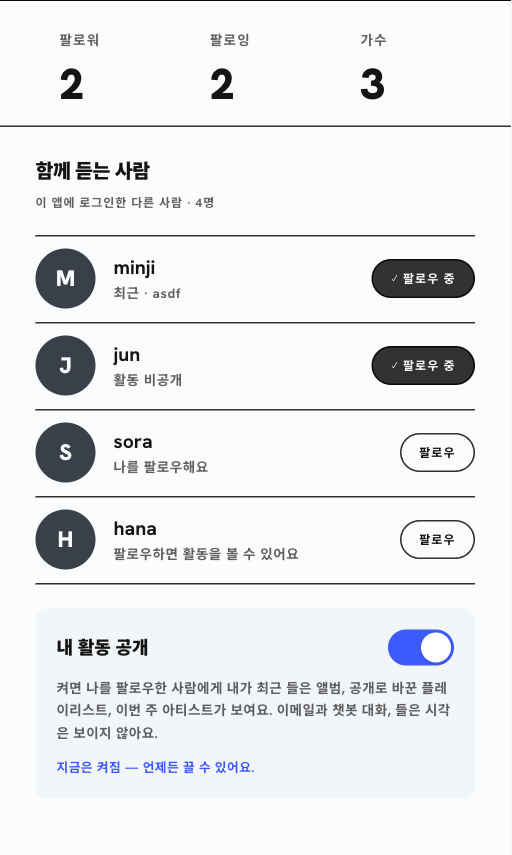
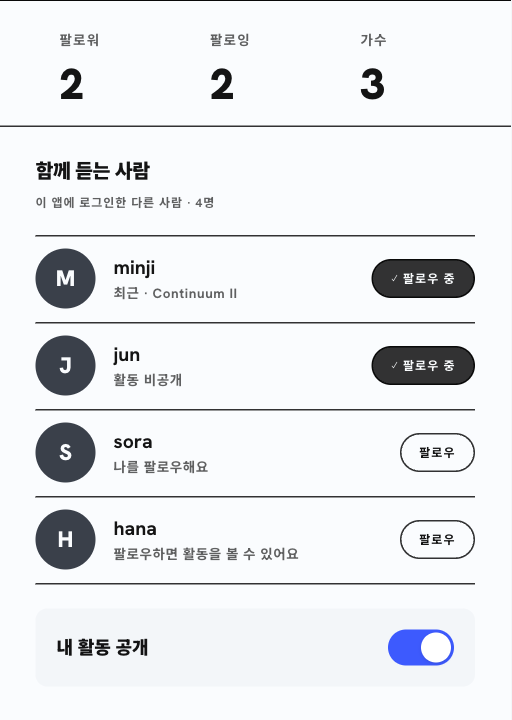
버튼 테두리 제거와 다듬기: 마이페이지·채팅·STATION·프로필 버튼을 투명 테두리로(크기 유지), 내 활동 공개 설명 삭제, 프로필 버튼 크기 통일, 플레이리스트 작업 글씨 키움, 이름 입력칸 테두리·배경 제거, 배너 버튼 옅은 배경, 연결하면 챗봇 서버를 미리 깨우는 /api/agent/warm

diff --git a/components/mypage/playlist-manager.tsx b/components/mypage/playlist-manager.tsx
@@ -21,7 +21,7 @@ const LIMIT = 50;
 
 /** A text-only action: no outline, blue under the cursor. */
 const ACTION =
-  "shrink-0 cursor-pointer whitespace-nowrap px-[8px] py-[6px] text-[8px] tracking-[0.7px] transition-colors hover:text-accent-bright";
+  "shrink-0 cursor-pointer whitespace-nowrap px-[8px] py-[6px] text-[10px] tracking-[0.7px] transition-colors hover:text-accent-bright";
 
 /**
  * 플레이리스트: the playlists this account keeps in Superlike, one per line,
@@ -92,7 +92,7 @@ export function PlaylistManager({
             <button
               type="button"
               onClick={() => setNaming(true)}
-              className="cursor-pointer whitespace-nowrap rounded-pill bg-ink px-[12px] py-[6px] text-[8px] tracking-[0.7px] text-on-ink transition-colors hover:bg-accent-bright hover:text-paper-solid"
+              className="cursor-pointer whitespace-nowrap rounded-pill bg-ink px-[12px] py-[6px] text-[10px] tracking-[0.7px] text-on-ink transition-colors hover:bg-accent-bright hover:text-paper-solid"
             >
               새 플레이리스트
             </button>
@@ -124,7 +124,7 @@ export function PlaylistManager({
                 maxLength={60}
                 placeholder="새 플레이리스트 이름"
                 aria-label="새 플레이리스트 이름"
-                className="h-[30px] w-[300px] rounded-[4px] border-[1.5px] border-rule bg-card px-[10px] text-[13px] outline-none"
+                className="h-[30px] w-[300px] rounded-[4px] border-[1.5px] border-transparent bg-transparent px-[10px] text-[13px] outline-none"
               />
               <button
                 type="submit"
@@ -136,7 +136,7 @@ export function PlaylistManager({
               <button
                 type="button"
                 onClick={() => setNaming(false)}
-                className="cursor-pointer rounded-pill bg-paper px-[12px] py-[6px] text-[8px] tracking-[0.7px] rule"
+                className="cursor-pointer rounded-pill bg-paper px-[12px] py-[6px] text-[8px] tracking-[0.7px] border-[1.5px] border-transparent"
               >
                 취소
               </button>
@@ -219,7 +219,7 @@ function Row({
             }}
             maxLength={60}
             aria-label="플레이리스트 이름"
-            className="h-[30px] w-full max-w-[300px] rounded-[4px] border-[1.5px] border-rule bg-card px-[10px] text-[13px] outline-none"
+            className="h-[30px] w-full max-w-[300px] rounded-[4px] border-[1.5px] border-transparent bg-transparent px-[10px] text-[13px] outline-none"
           />
         ) : (
           <button
@@ -241,7 +241,7 @@ function Row({
           aria-pressed={p.isPublic}
           title={p.isPublic ? "공개 중 — 누르면 비공개로" : "비공개 — 누르면 공개로"}
           onClick={() => void renamePlaylist(p.id, { isPublic: !p.isPublic }).catch(fail)}
-          className={`cursor-pointer whitespace-nowrap rounded-pill px-[12px] py-[6px] text-[8px] tracking-[0.7px] rule ${
+          className={`cursor-pointer whitespace-nowrap rounded-pill px-[12px] py-[6px] text-[8px] tracking-[0.7px] border-[1.5px] border-transparent ${
             p.isPublic ? "bg-accent-bright text-paper-solid" : "bg-paper"
           }`}
         >
@@ -262,7 +262,7 @@ function Row({
             <button
               type="button"
               onClick={() => setEditing(false)}
-              className="ml-[6px] cursor-pointer whitespace-nowrap rounded-pill bg-paper px-[12px] py-[6px] text-[8px] tracking-[0.7px] rule"
+              className="ml-[6px] cursor-pointer whitespace-nowrap rounded-pill bg-paper px-[12px] py-[6px] text-[8px] tracking-[0.7px] border-[1.5px] border-transparent"
             >
               취소
             </button>

diff --git a/components/detail/user-page.tsx b/components/detail/user-page.tsx
@@ -12,7 +12,8 @@ import type { Profile, ProfileAlbum, ProfilePlaylist, ProfileSong } from "@/lib/
 import { DetailStatus } from "./detail-shell";
 import { useDetail } from "./use-detail";
 
-const PILL = "shrink-0 whitespace-nowrap rounded-pill px-[14px] py-[8px] text-[9px] tracking-[0.7px]";
+/** Same size as the follow button beside it (`big`); the light ones keep a transparent border so no outline shows and the sizes still match. */
+const PILL = "shrink-0 whitespace-nowrap rounded-pill border-[1.5px] border-transparent px-[18px] py-[9px] text-[10px] tracking-[0.7px]";
 const BANNERS = ["#4a5a7a", "#5b4a6e", "#3f5f5a", "#6a4f4b", "#4d5568", "#58605a"];
 const bannerOf = (name: string) => BANNERS[[...name].reduce((n, c) => n + c.charCodeAt(0), 0) % BANNERS.length];
 
@@ -147,7 +148,7 @@ export function UserPage({ id }: { id: string }) {
       <section className="flex min-h-full flex-1 flex-col gap-[16px] bg-chart p-[16px]">
         <div className="flex w-full shrink-0 items-center justify-between gap-[12px]">
           <h2 className="text-[26px] font-black tracking-[-1px]">함께 듣는 사람</h2>
-          <button type="button" onClick={() => router.back()} className={`${PILL} bg-paper transition-colors hover:bg-soft rule`}>
+          <button type="button" onClick={() => router.back()} className={`${PILL} bg-paper transition-colors hover:bg-soft`}>
             <span aria-hidden>←</span> 뒤로
           </button>
         </div>
@@ -176,13 +177,13 @@ export function UserPage({ id }: { id: string }) {
           </p>
           <div className="mt-[8px] flex items-center gap-[8px]">
             {data.self ? (
-              <Link href="/mypage" className={`${PILL} bg-paper transition-colors hover:bg-soft rule`}>
+              <Link href="/mypage" className={`${PILL} bg-paper transition-colors hover:bg-soft`}>
                 내 마이페이지
               </Link>
             ) : (
               <PersonFollowButton id={data.id} name={data.name} following={data.iFollow} big onChange={refresh} />
             )}
-            <button type="button" onClick={() => router.back()} className={`${PILL} bg-paper transition-colors hover:bg-soft rule`}>
+            <button type="button" onClick={() => router.back()} className={`${PILL} bg-paper transition-colors hover:bg-soft`}>
               <span aria-hidden>←</span> 뒤로
             </button>
           </div>

diff --git a/components/chat/chat-panel.tsx b/components/chat/chat-panel.tsx
@@ -46,7 +46,7 @@ function Pill({
       title={title}
       disabled={disabled}
       onClick={onClick}
-      className={`shrink-0 cursor-pointer whitespace-nowrap rounded-pill px-[12px] py-[6px] text-[8px] tracking-[0.6px] transition-colors rule disabled:cursor-default ${
+      className={`shrink-0 cursor-pointer whitespace-nowrap rounded-pill px-[12px] py-[6px] text-[8px] tracking-[0.6px] transition-colors border-[1.5px] border-transparent disabled:cursor-default ${
         dark
           ? "bg-ink text-on-ink enabled:hover:bg-accent-bright enabled:hover:text-paper-solid"
           : "bg-card text-on-bright enabled:hover:bg-soft"
@@ -311,7 +311,7 @@ export function ChatPanel() {
               aria-expanded={historyOpen}
               title="대화 이력"
               onClick={() => setHistoryOpen((v) => !v)}
-              className={`flex size-[25px] shrink-0 cursor-pointer items-center justify-center rounded-pill transition-colors rule ${
+              className={`flex size-[25px] shrink-0 cursor-pointer items-center justify-center rounded-pill transition-colors border-[1.5px] border-transparent ${
                 historyOpen ? "bg-ink text-on-ink" : "bg-card text-on-bright hover:bg-soft"
               }`}
             >
@@ -340,7 +340,7 @@ export function ChatPanel() {
             const noHistory = hydrated && !session;
             const historyOn = hydrated && shareHistory && !noHistory;
             const pill = (on: boolean, none: boolean) =>
-              `shrink-0 whitespace-nowrap rounded-pill px-[10px] py-[4px] text-[8px] tracking-[0.6px] transition-colors rule ${
+              `shrink-0 whitespace-nowrap rounded-pill px-[10px] py-[4px] text-[8px] tracking-[0.6px] transition-colors border-[1.5px] border-transparent ${
                 none
                   ? "cursor-default bg-card text-on-bright-muted opacity-60"
                   : on

diff --git a/components/mypage/radio-manager.tsx b/components/mypage/radio-manager.tsx
@@ -89,14 +89,14 @@ export function RadioManager() {
                           href={s.homepage}
                           target="_blank"
                           rel="noopener noreferrer"
-                          className="whitespace-nowrap rounded-pill bg-paper px-[12px] py-[6px] text-[8px] tracking-[0.7px] transition-colors hover:bg-soft rule"
+                          className="whitespace-nowrap rounded-pill bg-paper px-[12px] py-[6px] text-[8px] tracking-[0.7px] transition-colors hover:bg-soft border-[1.5px] border-transparent"
                         >
                           공식 사이트 ↗
                         </a>
                       ) : (
                         <span
                           title="이 방송국은 공식 사이트 주소가 없어요"
-                          className="whitespace-nowrap rounded-pill px-[12px] py-[6px] text-[8px] tracking-[0.7px] opacity-40 rule"
+                          className="whitespace-nowrap rounded-pill px-[12px] py-[6px] text-[8px] tracking-[0.7px] opacity-40 border-[1.5px] border-transparent"
                         >
                           공식 사이트 ↗
                         </span>
@@ -104,7 +104,7 @@ export function RadioManager() {
                       <button
                         type="button"
                         onClick={() => void toggleFavorite(s)}
-                        className="cursor-pointer whitespace-nowrap rounded-pill bg-paper px-[12px] py-[6px] text-[8px] tracking-[0.7px] transition-colors hover:bg-soft rule"
+                        className="cursor-pointer whitespace-nowrap rounded-pill bg-paper px-[12px] py-[6px] text-[8px] tracking-[0.7px] transition-colors hover:bg-soft border-[1.5px] border-transparent"
                       >
                         즐겨찾기 해제
                       </button>

diff --git a/components/chat/action-card.tsx b/components/chat/action-card.tsx
@@ -44,7 +44,7 @@ function Button({
       type="button"
       disabled={disabled}
       onClick={onClick}
-      className={`shrink-0 cursor-pointer whitespace-nowrap rounded-pill px-[12px] py-[6px] text-[8px] tracking-[0.6px] transition-colors rule disabled:cursor-default disabled:opacity-40 ${
+      className={`shrink-0 cursor-pointer whitespace-nowrap rounded-pill px-[12px] py-[6px] text-[8px] tracking-[0.6px] transition-colors border-[1.5px] border-transparent disabled:cursor-default disabled:opacity-40 ${
         dark ? "bg-ink text-on-ink enabled:hover:bg-accent-bright enabled:hover:text-paper-solid" : "bg-card text-on-bright enabled:hover:bg-soft"
       }`}
     >
@@ -547,7 +547,7 @@ function AddTo({ messageId, a }: { messageId: string; a: ChatAction }) {
           type="button"
           disabled={sent.includes("new") && !a.note}
           onClick={() => setNaming(true)}
-          className="rule cursor-pointer rounded-pill border-[1.5px] border-rule px-[12px] py-[7px] text-left text-[9px] font-bold transition-colors hover:bg-soft disabled:cursor-default disabled:opacity-40"
+          className="cursor-pointer rounded-pill border-[1.5px] border-transparent px-[12px] py-[7px] text-left text-[9px] font-bold transition-colors hover:bg-soft disabled:cursor-default disabled:opacity-40"
         >
           + 새 플레이리스트에 담기
         </button>

diff --git a/components/mypage/account-banner.tsx b/components/mypage/account-banner.tsx
@@ -100,7 +100,7 @@ export function AccountBanner() {
           <Link
             href={`/user/${encodeURIComponent(myId)}`}
             title="다른 사람에게 보이는 내 프로필"
-            className="flex h-[28px] shrink-0 items-center whitespace-nowrap rounded-pill border-[1.5px] border-on-dark-muted px-[16px] text-[9px] tracking-[0.6px] text-on-dark-muted transition-colors hover:text-on-dark"
+            className="flex h-[28px] shrink-0 items-center whitespace-nowrap rounded-pill bg-white/10 px-[16px] text-[9px] tracking-[0.6px] text-on-dark-muted transition-colors hover:bg-white/20 hover:text-on-dark"
           >
             내 프로필
           </Link>
@@ -124,7 +124,7 @@ export function AccountBanner() {
               className={`flex h-[28px] shrink-0 cursor-pointer items-center whitespace-nowrap rounded-pill px-[16px] text-[9px] tracking-[0.6px] ${
                 theme === mode
                   ? "bg-paper-solid text-black"
-                  : "border-[1.5px] border-on-dark-muted text-on-dark-muted transition-colors hover:text-on-dark"
+                  : "bg-white/10 text-on-dark-muted transition-colors hover:bg-white/20 hover:text-on-dark"
               }`}
             >
               {label}

diff --git a/app/api/agent/warm/route.ts b/app/api/agent/warm/route.ts
@@ -1,0 +1,26 @@
+import { NextResponse } from "next/server";
+
+/**
+ * The chat agent is a separate process that, on the free host, goes to sleep
+ * when nobody has used it for a while and takes about a minute to wake up. The
+ * first question after that would fail. The browser calls this once when the
+ * listener connects Spotify, so the agent is already waking while they browse.
+ *
+ * It only touches the agent's `/health`, which asks the model nothing, so it
+ * costs no tokens. What matters is that the request arrives, not that it is
+ * answered: the wait is cut short and a slow answer is reported as `warming`.
+ */
+const AGENT_URL = process.env.AGENT_URL ?? "http://127.0.0.1:8765";
+
+export async function POST() {
+  try {
+    const res = await fetch(`${AGENT_URL}/health`, {
+      cache: "no-store",
+      signal: AbortSignal.timeout(8_000),
+    });
+    return NextResponse.json({ status: res.ok ? "awake" : "error" }, { headers: { "Cache-Control": "no-store" } });
+  } catch {
+    // no answer within the wait: the request has still reached a sleeping host, which starts waking on it
+    return NextResponse.json({ status: "warming" }, { headers: { "Cache-Control": "no-store" } });
+  }
+}

diff --git a/components/chat/link-card.tsx b/components/chat/link-card.tsx
@@ -174,7 +174,7 @@ function Card({
         aria-label={search ? `${title} 검색에서 열기` : `${title} ${kind === "artist" ? "아티스트" : "앨범"} 페이지 열기`}
         className={
           search
-            ? "rule shrink-0 cursor-pointer whitespace-nowrap rounded-pill bg-card px-[10px] py-[5px] text-[8px] tracking-[0.6px] text-on-bright transition-colors hover:bg-soft"
+            ? "border-[1.5px] border-transparent shrink-0 cursor-pointer whitespace-nowrap rounded-pill bg-card px-[10px] py-[5px] text-[8px] tracking-[0.6px] text-on-bright transition-colors hover:bg-soft"
             : "shrink-0 cursor-pointer whitespace-nowrap rounded-pill bg-ink px-[10px] py-[5px] text-[8px] tracking-[0.6px] text-on-ink transition-colors enabled:hover:bg-accent-bright enabled:hover:text-paper-solid disabled:cursor-default disabled:opacity-35"
         }
       >

diff --git a/components/mypage/side-panels.tsx b/components/mypage/side-panels.tsx
@@ -96,12 +96,6 @@ function ShareSwitch() {
           <span className={`absolute top-[2px] size-[20px] rounded-pill bg-white shadow transition-[left] ${share ? "left-[22px]" : "left-[2px]"}`} />
         </button>
       </div>
-      <p className="text-[9px] leading-[15px] tracking-[0.3px] text-on-bright-muted">
-        켜면 나를 팔로우한 사람에게 내가 최근 들은 앨범, 공개로 바꾼 플레이리스트, 이번 주 아티스트가 보여요. 이메일과 챗봇 대화, 들은 시각은 보이지 않아요.
-      </p>
-      <p className={`text-[8.5px] leading-[14px] tracking-[0.3px] ${share ? "text-accent-bright" : "text-on-bright-muted"}`}>
-        {share ? "지금은 켜짐 — 언제든 끌 수 있어요." : "지금은 꺼짐 — 나를 팔로우해도 내 곡은 보이지 않아요."}
-      </p>
     </div>
   );
 }

diff --git a/components/player/spotify-provider.tsx b/components/player/spotify-provider.tsx
@@ -427,6 +427,18 @@ export function SpotifyProvider({ children }: { children: React.ReactNode }) {
     setRecentNonce((n) => n + 1);
   }, []);
 
+  // wake the chat agent as soon as the listener is connected, once per browser session: it sleeps when idle, and the first question would otherwise fail
+  useEffect(() => {
+    if (!connected) return;
+    try {
+      if (sessionStorage.getItem("superlike-agent-warm")) return;
+      sessionStorage.setItem("superlike-agent-warm", "1");
+    } catch {
+      // storage can be blocked: warm anyway, the call is harmless
+    }
+    void fetch("/api/agent/warm", { method: "POST", cache: "no-store" }).catch(() => {});
+  }, [connected]);
+
   useEffect(() => {
     if (!connected) return;
     let cancelled = false;

diff --git a/components/ui/track-card.tsx b/components/ui/track-card.tsx
@@ -236,7 +236,7 @@ export function TrackCard({ track, rank }: { track: TrackCardTrack; rank?: numbe
               setStarting(false);
             }
           }}
-          className={`flex shrink-0 items-center gap-[5px] whitespace-nowrap rounded-pill bg-accent px-[10px] py-[4px] text-[8px] tracking-[0.6px] text-paper-solid transition-colors rule disabled:opacity-100 ${
+          className={`flex shrink-0 items-center gap-[5px] whitespace-nowrap rounded-pill bg-accent px-[10px] py-[4px] text-[8px] tracking-[0.6px] text-paper-solid transition-colors border-[1.5px] border-transparent disabled:opacity-100 ${
             blocked ? "cursor-default" : "cursor-pointer enabled:hover:bg-ink"
           }`}
         >

diff --git a/components/manual/content.ts b/components/manual/content.ts
@@ -527,7 +527,7 @@ export const MANUAL: ManualSection[] = [
         ],
       },
       { kind: "h", text: "사람 팔로우와 내 활동 공개" },
-      { kind: "shot", src: "/manual/people.png", alt: "함께 듣는 사람과 내 활동 공개 스위치", caption: "마이페이지 오른쪽 열: 팔로워·팔로잉·가수 숫자, 함께 듣는 사람, 내 활동 공개 스위치", ratio: 0.5982 },
+      { kind: "shot", src: "/manual/people.png", alt: "함께 듣는 사람과 내 활동 공개 스위치", caption: "마이페이지 오른쪽 열: 팔로워·팔로잉·가수 숫자, 함께 듣는 사람, 내 활동 공개 스위치", ratio: 0.7104 },
       {
         kind: "list",
         items: [
